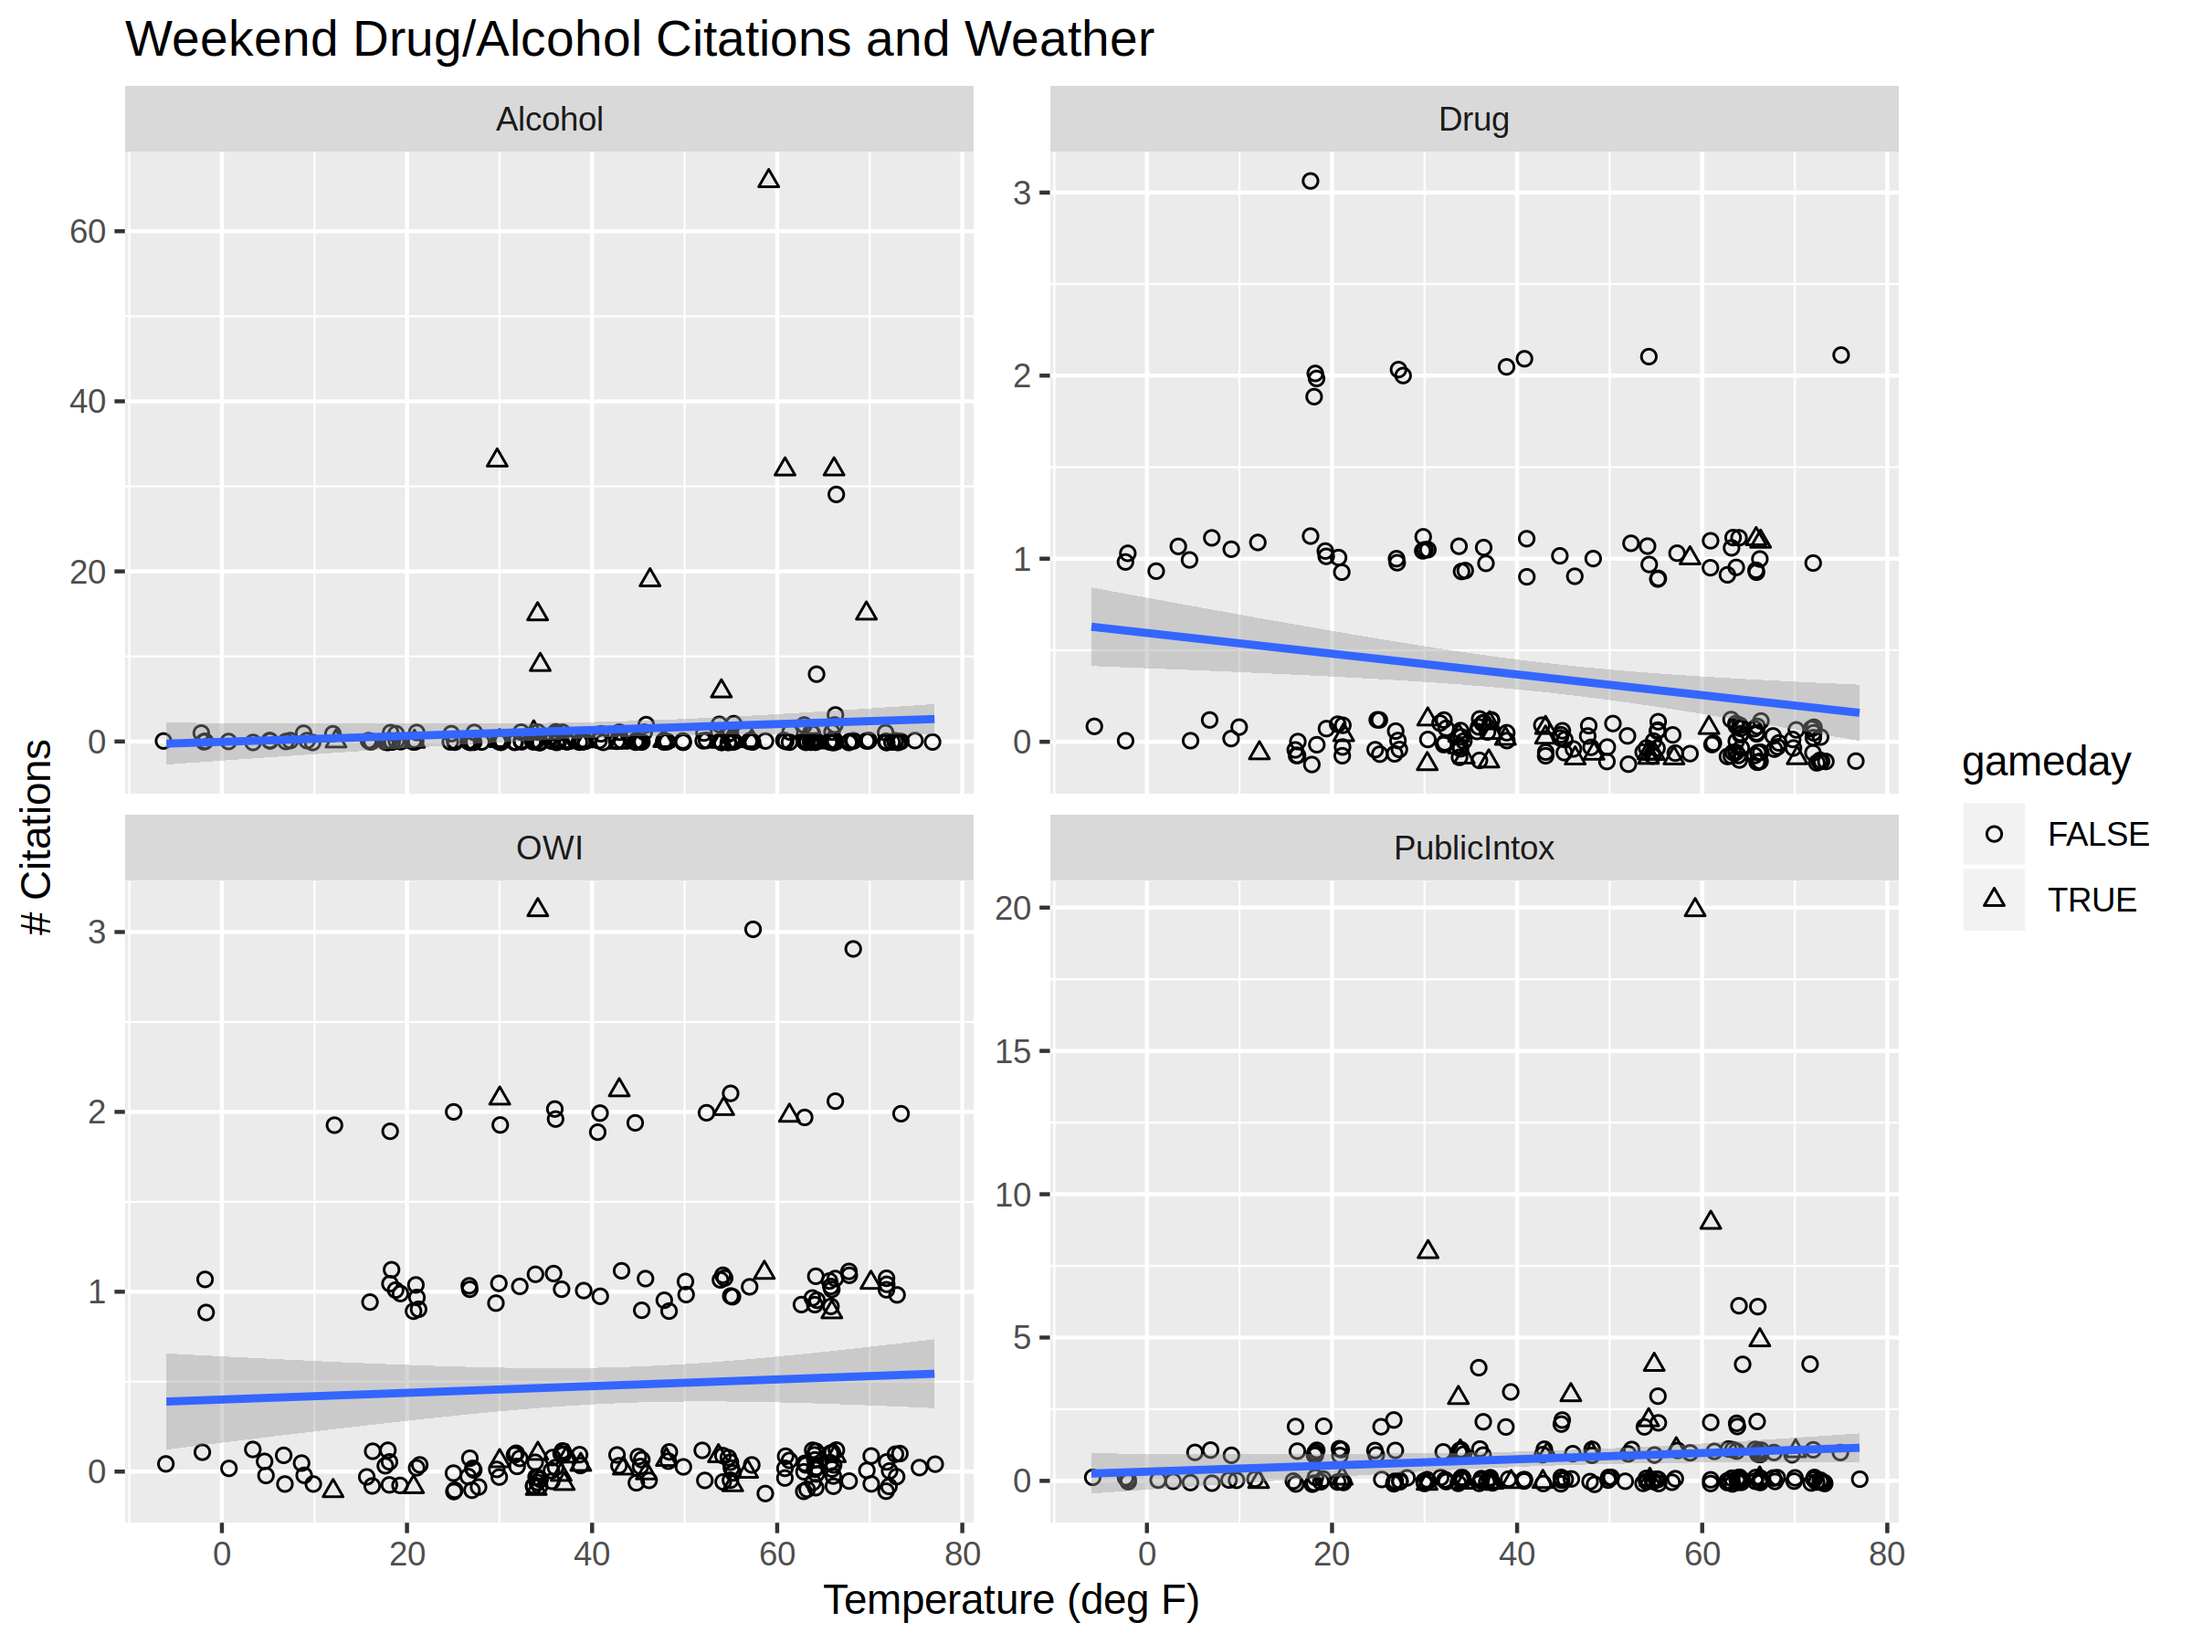
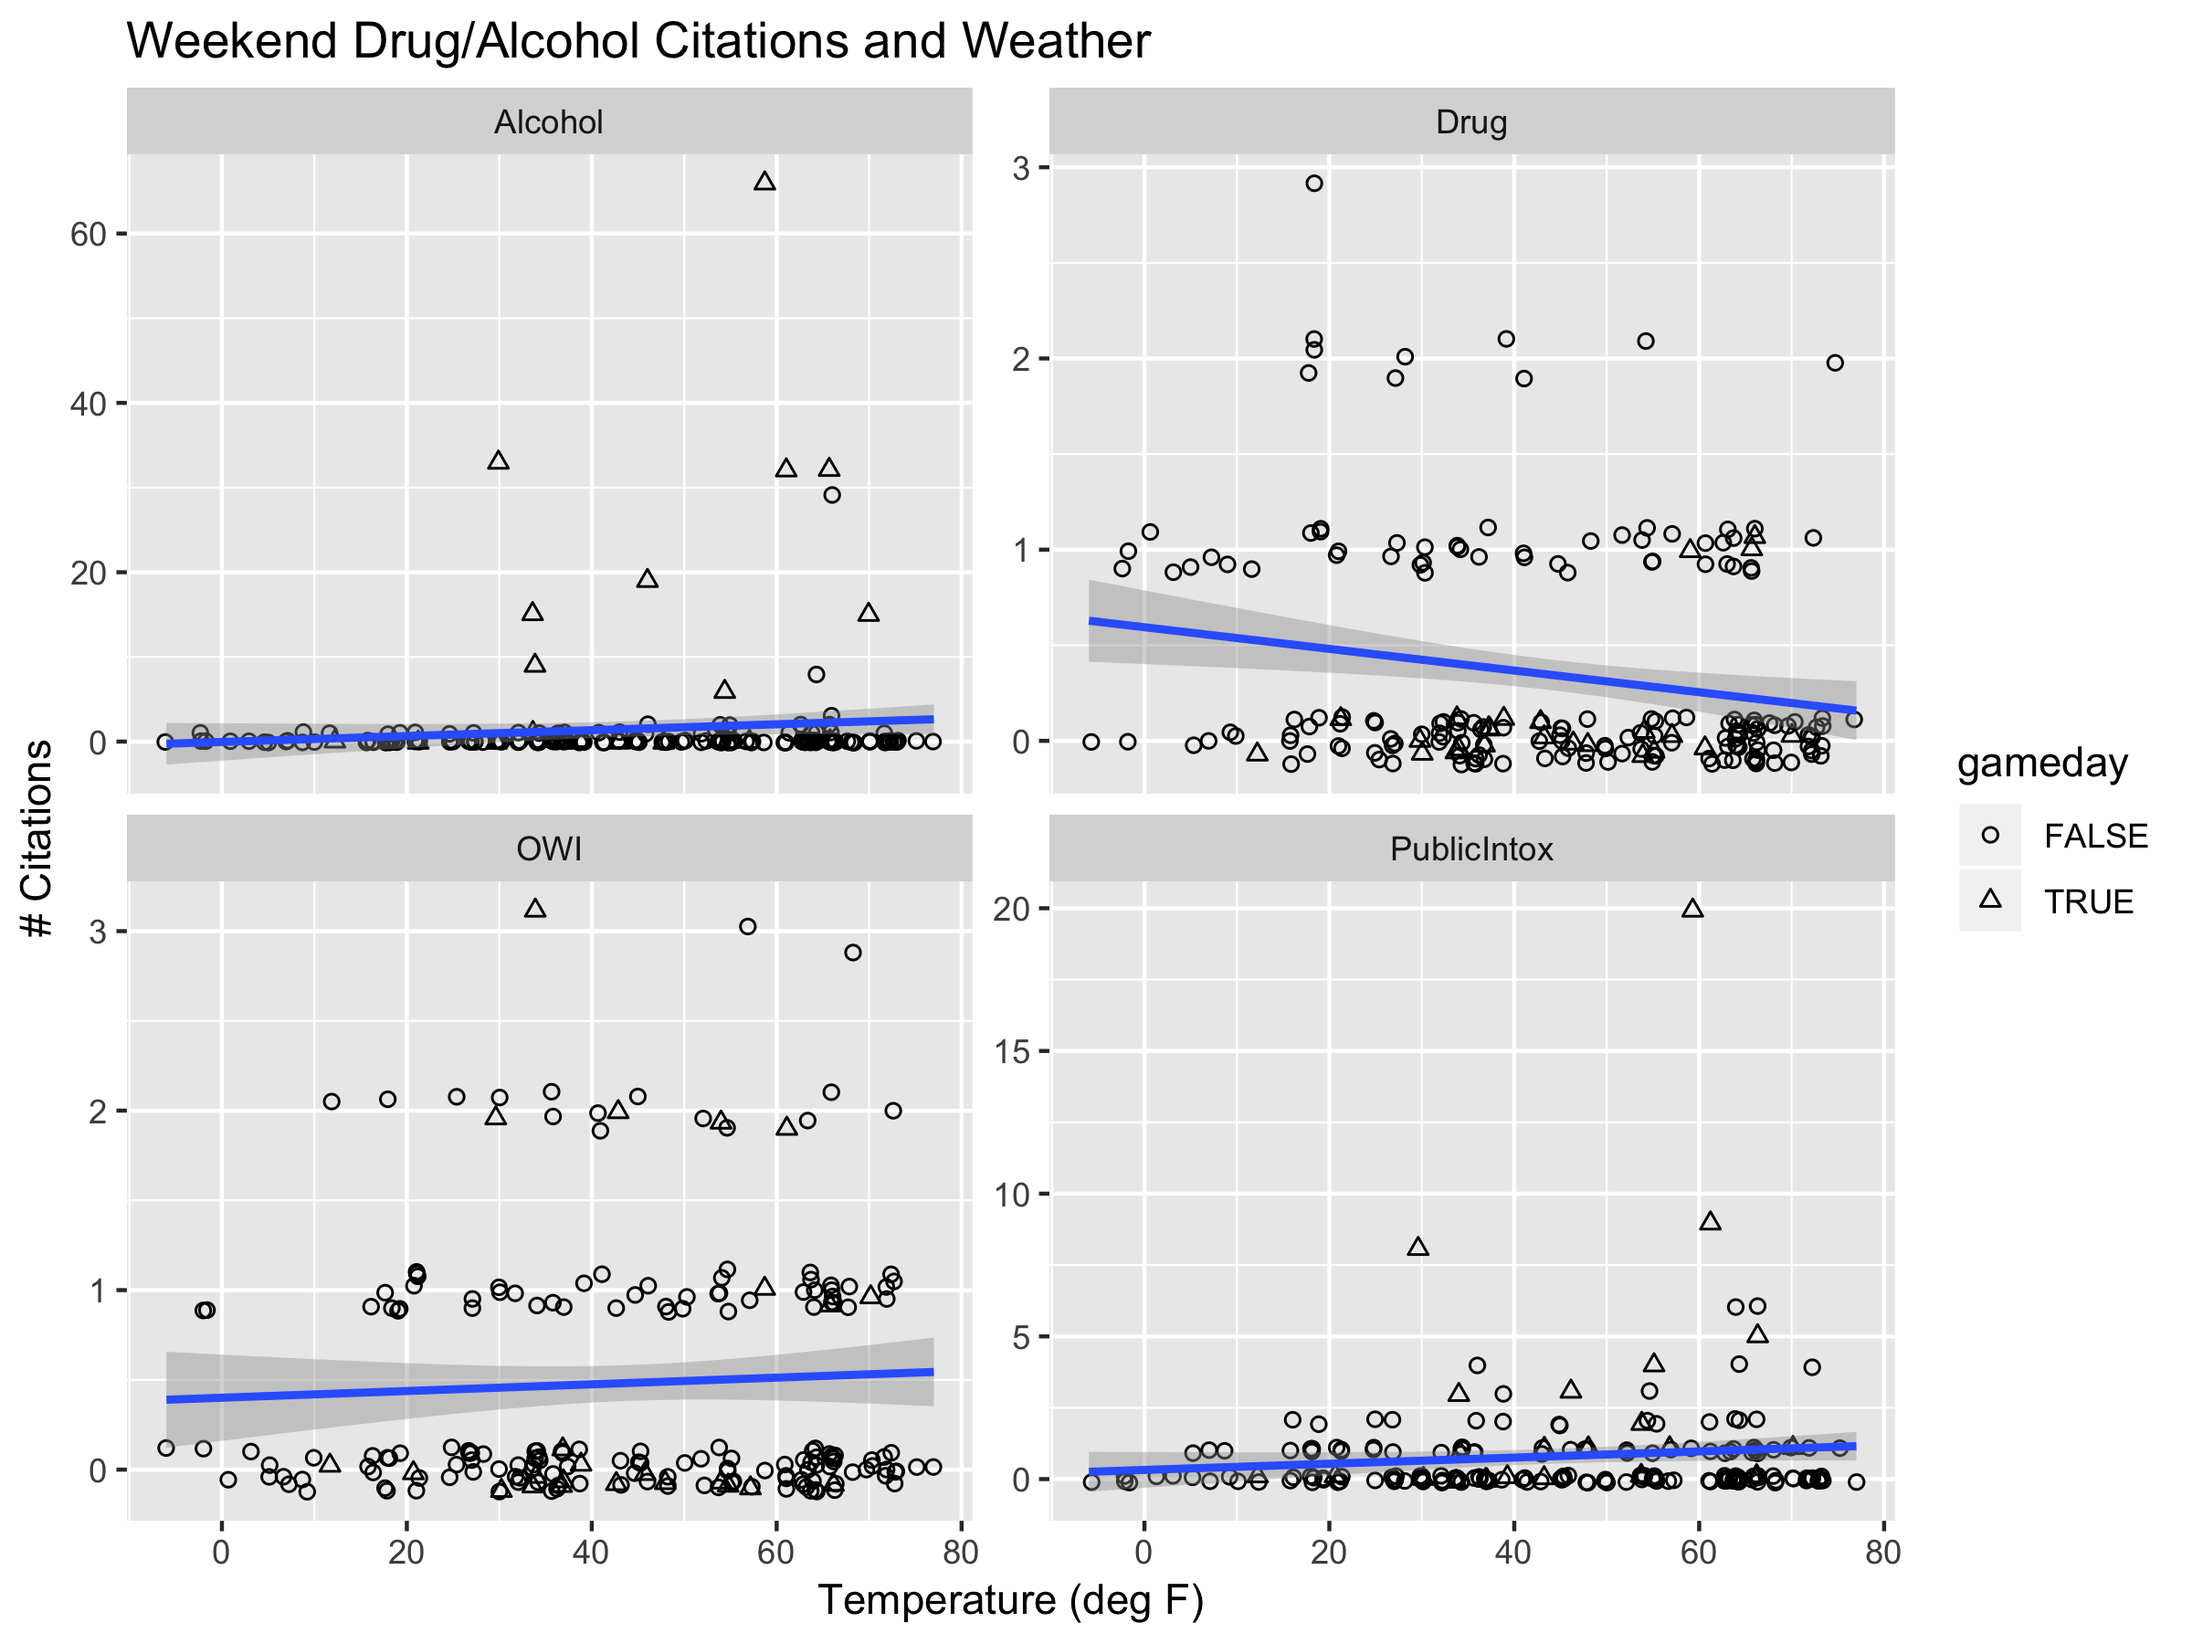
re-knitted

diff --git a/02_tidyverse/01_intro.html b/02_tidyverse/01_intro.html
@@ -201,6 +201,7 @@ doesn't change much
 first get dates, see [RStudio lubridate cheat sheet](https://github.com/rstudio/cheatsheets/raw/master/lubridate.pdf):
 
 ```r
+library(lubridate)
 head(pd$`Date/Time Reported`)
 ```
 
@@ -408,6 +409,17 @@ perday %&gt;%
 ![](01_intro_files/figure-html/unnamed-chunk-11-1.png)&lt;!-- --&gt;
 
 ---
+
+# ... it's the Saturdays that are tricky
+
+
+```r
+perday %&gt;% ggplot(aes(x = wday(day, label =TRUE), weight = n)) + geom_bar()
+```
+
+![](01_intro_files/figure-html/unnamed-chunk-12-1.png)&lt;!-- --&gt;
+
+---
 class: inverse
 ## Your turn
 
@@ -415,7 +427,7 @@ The files [isu-football-2017.csv](https://raw.githubusercontent.com/Stat585-at-I
 
 Use the data to create the chart below:
 
-![](01_intro_files/figure-html/unnamed-chunk-12-1.png)&lt;!-- --&gt;
+![](01_intro_files/figure-html/unnamed-chunk-13-1.png)&lt;!-- --&gt;
 
 Don't forget to *look at* the chart. What are your main findings?
 
@@ -489,12 +501,14 @@ drug_alcohol_daily &lt;- pd %&gt;%
 
 
 ```r
+game_days &lt;- unique(c(schedule$date, schedule17$date))
+
 # Combine the data with weather data
 wkd_weather_cites &lt;- drug_alcohol_daily %&gt;%
   left_join(ames_weather_daily) %&gt;% 
   mutate(wday = wday(day, label = T)) %&gt;%
   # Show game days
-  mutate(gameday = day %in% schedule$date | day %in% schedule17$date) %&gt;%
+  mutate(gameday = day %in% game_days) %&gt;%
   filter(wday %in% c("Thurs", "Fri", "Sat"))
 ```
 
@@ -512,7 +526,8 @@ wkd_weather_cites %&gt;%
   facet_wrap(~Main, scales = "free_y") + 
   scale_shape_manual(values = c(1, 2)) + 
   ggtitle("Weekend Drug/Alcohol Citations and Weather") + 
-  scale_x_continuous("Temperature (deg F)") + scale_y_continuous("# Citations")
+  scale_x_continuous("Temperature (deg F)") + 
+  scale_y_continuous("# Citations")
 ```
 
 ---
